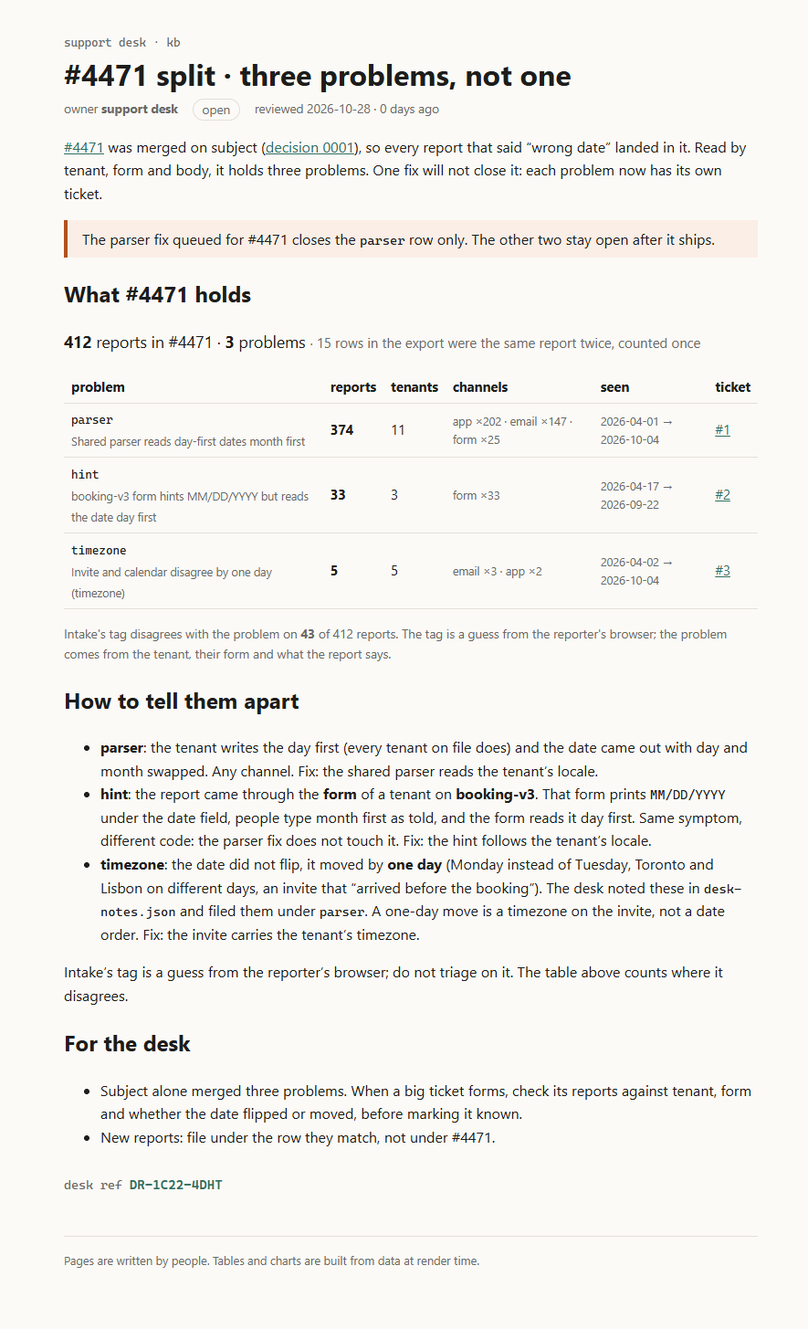
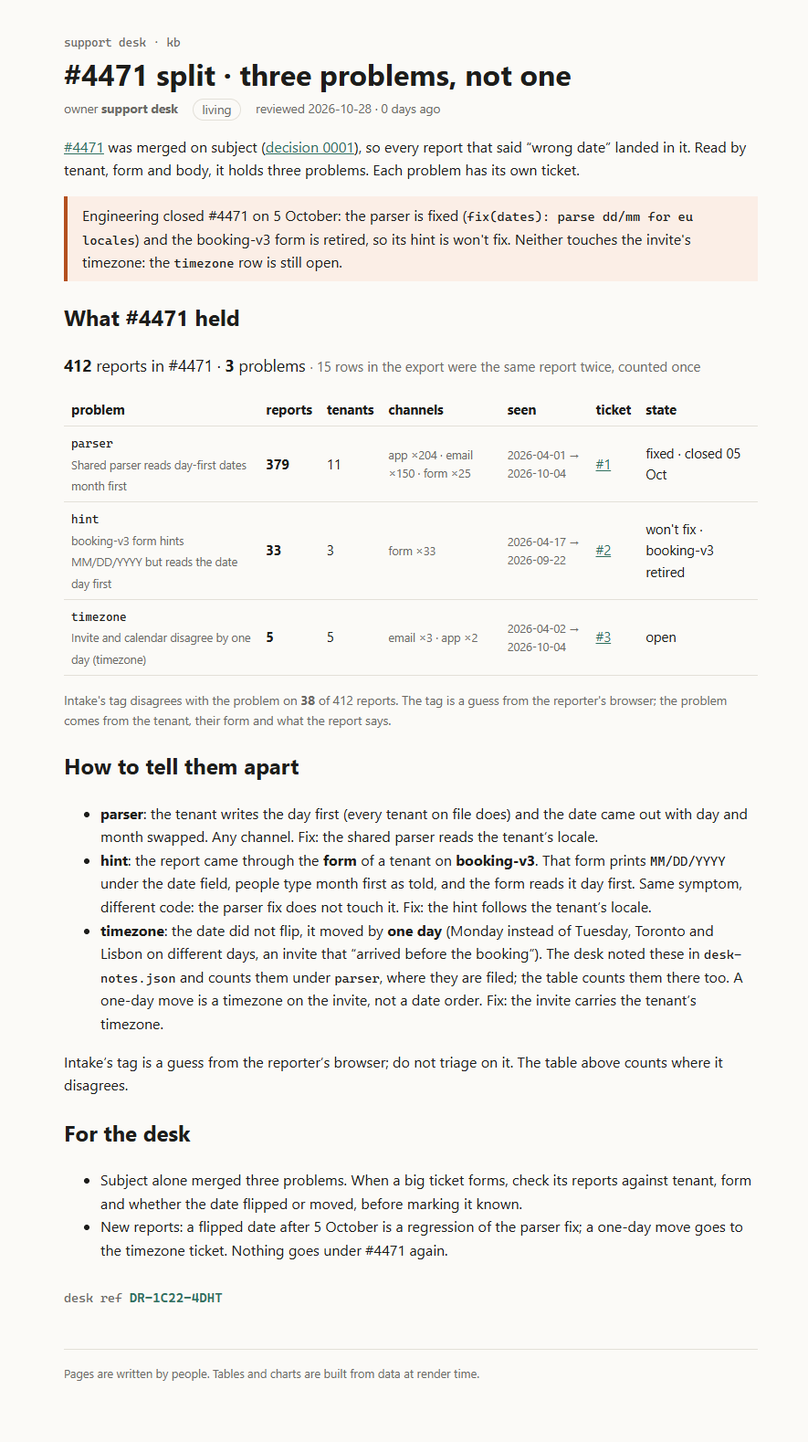
Update #4471 split page after engineering closed #4471
Parser fixed, booking-v3 hint won't fix, timezone still open. Parser
counted the desk's way (379, one-day moves stay where filed).

diff --git a/build/kb/incidents/4471-split/index.html b/build/kb/incidents/4471-split/index.html
@@ -9,11 +9,11 @@
 		<link href="../../../_app/immutable/chunks/B2Ul7l_u.js" rel="modulepreload">
 		<link href="../../../_app/immutable/chunks/BCPXOG7W.js" rel="modulepreload">
 		<link href="../../../_app/immutable/chunks/Dh1V97Jm.js" rel="modulepreload">
-		<link href="../../../_app/immutable/entry/app.uIZ9lFer.js" rel="modulepreload">
+		<link href="../../../_app/immutable/entry/app.BoNvqX0I.js" rel="modulepreload">
 		<link href="../../../_app/immutable/nodes/0.BurGglGN.js" rel="modulepreload">
 		<link href="../../../_app/immutable/chunks/DK3Fl9T5.js" rel="modulepreload">
-		<link href="../../../_app/immutable/nodes/5.B_NhNlF3.js" rel="modulepreload">
-		<link href="../../../_app/immutable/chunks/DJQhf34s.js" rel="modulepreload">
+		<link href="../../../_app/immutable/nodes/5.nLct2xgY.js" rel="modulepreload">
+		<link href="../../../_app/immutable/chunks/DkG8LdND.js" rel="modulepreload">
 		<link href="../../../_app/immutable/chunks/BTPwLomz.js" rel="modulepreload">
 		<link href="../../../_app/immutable/chunks/CVBzP17p.js" rel="modulepreload">
 		<link href="../../../_app/immutable/chunks/BIy4WKJS.js" rel="modulepreload">
@@ -23,29 +23,32 @@
 		<link href="../../../_app/immutable/assets/_page.ieYXtT2a.css" rel="stylesheet">
   </head>
   <body>
-    <div style="display: contents"><!--[--><!--[--><!--[0--><!--[--><!--[--><!--[-1--><!--[--><div class="kb svelte-e2jw2j"><header><a class="crumb svelte-e2jw2j" href="/kb">support desk · kb</a> <h1 class="svelte-e2jw2j">#4471 split · three problems, not one</h1> <p class="meta svelte-e2jw2j"><span>owner <b>support desk</b></span> <span class="status open svelte-e2jw2j">open</span> <span class="svelte-e2jw2j">reviewed 2026-10-28 · 0 days ago</span></p></header> <!--[-1--><!--]--> <main><p><a href="/kb/incidents/4471">#4471</a> was merged on subject (<a href="/kb/decisions/0001-dedupe-by-subject">decision 0001</a>), so
+    <div style="display: contents"><!--[--><!--[--><!--[0--><!--[--><!--[--><!--[-1--><!--[--><div class="kb svelte-e2jw2j"><header><a class="crumb svelte-e2jw2j" href="/kb">support desk · kb</a> <h1 class="svelte-e2jw2j">#4471 split · three problems, not one</h1> <p class="meta svelte-e2jw2j"><span>owner <b>support desk</b></span> <span class="status living svelte-e2jw2j">living</span> <span class="svelte-e2jw2j">reviewed 2026-10-28 · 0 days ago</span></p></header> <!--[-1--><!--]--> <main><p><a href="/kb/incidents/4471">#4471</a> was merged on subject (<a href="/kb/decisions/0001-dedupe-by-subject">decision 0001</a>), so
 every report that said “wrong date” landed in it. Read by tenant, form and body, it holds three problems.
-One fix will not close it: each problem now has its own ticket.</p> <aside class="warn svelte-17bri61"><!---->The parser fix queued for #4471 closes the <code>parser</code> row only. The other two stay open after it ships.<!----></aside><!----> <h2>What #4471 holds</h2> <p class="sum svelte-1op6c6"><strong>412</strong> reports in #4471 · <strong>3</strong> problems <!--[0--><span class="muted svelte-1op6c6">· 15 rows in the export were the same report twice, counted once</span><!--]--></p> <table><thead><tr><th>problem</th><th>reports</th><th>tenants</th><th>channels</th><th>seen</th><th>ticket</th></tr></thead><tbody><!--[--><tr class="svelte-1op6c6"><td class="svelte-1op6c6"><code>parser</code><br/><span class="muted svelte-1op6c6">Shared parser reads day-first dates month first</span></td><td class="svelte-1op6c6"><strong>374</strong></td><td title="alder.physio, copper.studio, harbour.dental, kettle.books, lantern.row, long.table, morrow.tax, nine.lanterns, pale.harbour, ridge.clinic, stone.and.sons" class="svelte-1op6c6">11</td><td class="muted svelte-1op6c6">app ×202 · email ×147 · form ×25</td><td class="muted svelte-1op6c6">2026-04-01 → 2026-10-04</td><td class="svelte-1op6c6"><!--[0--><a href="https://github.com/juangelrey/mega-s01e03-what-it-shows/issues/1">#1</a><!--]--></td></tr><tr class="svelte-1op6c6"><td class="svelte-1op6c6"><code>hint</code><br/><span class="muted svelte-1op6c6">booking-v3 form hints MM/DD/YYYY but reads the date day first</span></td><td class="svelte-1op6c6"><strong>33</strong></td><td title="alder.physio, copper.studio, pale.harbour" class="svelte-1op6c6">3</td><td class="muted svelte-1op6c6">form ×33</td><td class="muted svelte-1op6c6">2026-04-17 → 2026-09-22</td><td class="svelte-1op6c6"><!--[0--><a href="https://github.com/juangelrey/mega-s01e03-what-it-shows/issues/2">#2</a><!--]--></td></tr><tr class="svelte-1op6c6"><td class="svelte-1op6c6"><code>timezone</code><br/><span class="muted svelte-1op6c6">Invite and calendar disagree by one day (timezone)</span></td><td class="svelte-1op6c6"><strong>5</strong></td><td title="alder.physio, kettle.books, lantern.row, nine.lanterns, pale.harbour" class="svelte-1op6c6">5</td><td class="muted svelte-1op6c6">email ×3 · app ×2</td><td class="muted svelte-1op6c6">2026-04-02 → 2026-10-04</td><td class="svelte-1op6c6"><!--[0--><a href="https://github.com/juangelrey/mega-s01e03-what-it-shows/issues/3">#3</a><!--]--></td></tr><!--]--></tbody></table> <p class="muted svelte-1op6c6">Intake's tag disagrees with the problem on <strong>43</strong> of 412 reports. The tag is a guess from the
+Each problem has its own ticket.</p> <aside class="warn svelte-17bri61"><!---->Engineering closed #4471 on 5 October: the parser is fixed (<code>fix(dates): parse dd/mm for eu locales</code>)
+and the booking-v3 form is retired, so its hint is won't fix. Neither touches the invite's timezone:
+the <code>timezone</code> row is still open.<!----></aside><!----> <h2>What #4471 held</h2> <p class="sum svelte-1op6c6"><strong>412</strong> reports in #4471 · <strong>3</strong> problems <!--[0--><span class="muted svelte-1op6c6">· 15 rows in the export were the same report twice, counted once</span><!--]--></p> <table><thead><tr><th>problem</th><th>reports</th><th>tenants</th><th>channels</th><th>seen</th><th>ticket</th><th>state</th></tr></thead><tbody><!--[--><tr class="svelte-1op6c6"><td class="svelte-1op6c6"><code>parser</code><br/><span class="muted svelte-1op6c6">Shared parser reads day-first dates month first</span></td><td class="svelte-1op6c6"><strong>379</strong></td><td title="alder.physio, copper.studio, harbour.dental, kettle.books, lantern.row, long.table, morrow.tax, nine.lanterns, pale.harbour, ridge.clinic, stone.and.sons" class="svelte-1op6c6">11</td><td class="muted svelte-1op6c6">app ×204 · email ×150 · form ×25</td><td class="muted svelte-1op6c6">2026-04-01 → 2026-10-04</td><td class="svelte-1op6c6"><!--[0--><a href="https://github.com/juangelrey/mega-s01e03-what-it-shows/issues/1">#1</a><!--]--></td><td class="svelte-1op6c6">fixed · closed 05 Oct</td></tr><tr class="svelte-1op6c6"><td class="svelte-1op6c6"><code>hint</code><br/><span class="muted svelte-1op6c6">booking-v3 form hints MM/DD/YYYY but reads the date day first</span></td><td class="svelte-1op6c6"><strong>33</strong></td><td title="alder.physio, copper.studio, pale.harbour" class="svelte-1op6c6">3</td><td class="muted svelte-1op6c6">form ×33</td><td class="muted svelte-1op6c6">2026-04-17 → 2026-09-22</td><td class="svelte-1op6c6"><!--[0--><a href="https://github.com/juangelrey/mega-s01e03-what-it-shows/issues/2">#2</a><!--]--></td><td class="svelte-1op6c6">won't fix · booking-v3 retired</td></tr><tr class="svelte-1op6c6"><td class="svelte-1op6c6"><code>timezone</code><br/><span class="muted svelte-1op6c6">Invite and calendar disagree by one day (timezone)</span></td><td class="svelte-1op6c6"><strong>5</strong></td><td title="alder.physio, kettle.books, lantern.row, nine.lanterns, pale.harbour" class="svelte-1op6c6">5</td><td class="muted svelte-1op6c6">email ×3 · app ×2</td><td class="muted svelte-1op6c6">2026-04-02 → 2026-10-04</td><td class="svelte-1op6c6"><!--[0--><a href="https://github.com/juangelrey/mega-s01e03-what-it-shows/issues/3">#3</a><!--]--></td><td class="svelte-1op6c6">open</td></tr><!--]--></tbody></table> <p class="muted svelte-1op6c6">Intake's tag disagrees with the problem on <strong>38</strong> of 412 reports. The tag is a guess from the
   reporter's browser; the problem comes from the tenant, their form and what the report says.</p><!----> <h2>How to tell them apart</h2> <ul><li><strong>parser</strong>: the tenant writes the day first (every tenant on file does) and the date came out with day and
 month swapped. Any channel. Fix: the shared parser reads the tenant’s locale.</li> <li><strong>hint</strong>: the report came through the <strong>form</strong> of a tenant on <strong>booking-v3</strong>. That form prints <code>MM/DD/YYYY</code> under the date field, people type month first as told, and the form reads it day first.
 Same symptom, different code: the parser fix does not touch it. Fix: the hint follows the tenant’s locale.</li> <li><strong>timezone</strong>: the date did not flip, it moved by <strong>one day</strong> (Monday instead of Tuesday, Toronto and Lisbon
-on different days, an invite that “arrived before the booking”). The desk noted these in <code>desk-notes.json</code> and filed them under <code>parser</code>. A one-day move is a timezone on the invite, not a
+on different days, an invite that “arrived before the booking”). The desk noted these in <code>desk-notes.json</code> and counts them under <code>parser</code>, where they are filed; the table counts them there too. A one-day move is a timezone on the invite, not a
 date order. Fix: the invite carries the tenant’s timezone.</li></ul> <p>Intake’s tag is a guess from the reporter’s browser; do not triage on it. The table above counts where it
 disagrees.</p> <h2>For the desk</h2> <ul><li>Subject alone merged three problems. When a big ticket forms, check its reports against tenant, form and
-whether the date flipped or moved, before marking it known.</li> <li>New reports: file under the row they match, not under #4471.</li></ul> <!--[0--><p class="stamp svelte-1280m42">desk ref <b class="svelte-1280m42">DR-1C22-4DHT</b></p><!--]--><!----><!----></main> <footer class="svelte-e2jw2j">Pages are written by people. Tables and charts are built from data at render time.</footer></div><!--]--><!--]--><!--]--><!----><!--]--><!--]--><!--]--><!----> <!--[-1--><!--]--><!--]-->
+whether the date flipped or moved, before marking it known.</li> <li>New reports: a flipped date after 5 October is a regression of the parser fix; a one-day move goes to the
+timezone ticket. Nothing goes under #4471 again.</li></ul> <!--[0--><p class="stamp svelte-1280m42">desk ref <b class="svelte-1280m42">DR-1C22-4DHT</b></p><!--]--><!----><!----></main> <footer class="svelte-e2jw2j">Pages are written by people. Tables and charts are built from data at render time.</footer></div><!--]--><!--]--><!--]--><!----><!--]--><!--]--><!--]--><!----> <!--[-1--><!--]--><!--]-->
 			
 			<script>
 				{
-					__sveltekit_1digjg2 = {
+					__sveltekit_1bf1uvu = {
 						base: new URL("../../..", location).pathname.slice(0, -1),
-						version: "1793228470572"
+						version: "1793228848483"
 					};
 
 					const element = document.currentScript.parentElement;
 
 					import("../../../_app/immutable/entry/start.CH5w6lId.js").then(async (kit) => {
-						kit.init(__sveltekit_1digjg2);
-						const app = await import("../../../_app/immutable/entry/app.uIZ9lFer.js");
+						kit.init(__sveltekit_1bf1uvu);
+						const app = await import("../../../_app/immutable/entry/app.BoNvqX0I.js");
 						kit.start(app, element, {
 							node_ids: [0, 5],
 							data: [null,null],

diff --git a/build/_app/immutable/chunks/DkG8LdND.js b/build/_app/immutable/chunks/DkG8LdND.js
@@ -1,0 +1,13 @@
+import{t as e}from"./DK3Fl9T5.js";import{E as t,F as n,H as r,I as i,K as a,L as o,N as s,O as c,R as l,S as u,T as d,U as f,W as p,_ as m,c as h,d as g,h as _,k as v,n as y,q as b,r as x,t as S,w as C}from"./BCPXOG7W.js";import{t as w}from"./BTPwLomz.js";import{n as T,t as E}from"./CVBzP17p.js";import{i as D,l as O,r as k,t as A}from"./BIy4WKJS.js";var j={parser:`Shared parser reads day-first dates month first`,hint:`booking-v3 form hints MM/DD/YYYY but reads the date day first`,timezone:`Invite and calendar disagree by one day (timezone)`};function M(e,t,n){return n.includes(e.id)?`timezone`:D(e,t)}function N(e,t,n,r){let i=O(e).filter(e=>e.mergedInto===t),a=new Map,o=(e,t)=>a.set(e,[...a.get(e)??[],t]);for(let e of i)o(D(e,n(e))??`unplaced`,e),M(e,n(e),r)===`timezone`&&o(`timezone`,e);return[...a.entries()].map(([e,t])=>{let n=t.map(e=>e.receivedAt.slice(0,10)).sort();return{problem:e,reports:t,tenants:[...new Set(t.map(e=>e.tenant))].sort(),channels:t.reduce((e,t)=>({...e,[t.channel]:(e[t.channel]??0)+1}),{}),mistagged:t.filter(t=>t.meta.intakeTag!==e).length,firstSeen:n[0],lastSeen:n[n.length-1]}}).sort((e,t)=>t.reports.length-e.reports.length)}var P=t(`<span class="muted svelte-1op6c6"> </span>`),F=t(`<a> </a>`),I=t(`<tr><td class="svelte-1op6c6"><code> </code><br/><span class="muted svelte-1op6c6"> </span></td><td class="svelte-1op6c6"><strong> </strong></td><td class="svelte-1op6c6"> </td><td class="muted svelte-1op6c6"> </td><td class="muted svelte-1op6c6"> </td><td class="svelte-1op6c6"><!></td><td class="svelte-1op6c6"> </td></tr>`),L=t(`<p class="sum svelte-1op6c6"><strong> </strong> <strong> </strong> <!></p> <table><thead><tr><th>problem</th><th>reports</th><th>tenants</th><th>channels</th><th>seen</th><th>ticket</th><th>state</th></tr></thead><tbody></tbody></table> <p class="muted svelte-1op6c6">Intake's tag disagrees with the problem on <strong> </strong> </p>`,1);function R(e,t){p(t,!0);let a=y(t,`tickets`,19,()=>({})),d=r(()=>T),x=r(()=>N(v(d),t.ticket,k,E.oneDayMove)),S=r(()=>new Set(v(x).flatMap(e=>e.reports.map(e=>e.id))).size),w=r(()=>v(d).filter(e=>e.mergedInto===t.ticket).length-v(S)),D=e=>`#`+e.split(`/`).pop(),O=e=>Object.entries(e).sort((e,t)=>t[1]-e[1]).map(([e,t])=>`${e} ×${t}`).join(` · `);var A=L(),M=i(A),R=n(M),z=o(R,!0),B=l(R),V=l(B),H=o(V,!0),U=l(V),W=l(U),G=e=>{var t=P(),n=o(t);s(()=>u(n,`· ${v(w)??``} rows in the export were the same report twice, counted once`)),C(e,t)};m(W,e=>{v(w)&&e(G)}),b(M);var K=l(M,2),q=l(n(K));_(q,21,()=>v(x),e=>e.problem,(e,t)=>{let i=r(()=>v(t).problem===`unplaced`?void 0:a()[v(t).problem]);var d=I();let f;var p=n(d),_=n(p),y=o(_,!0),x=l(_,2),S=o(x,!0);b(p);var w=l(p),T=n(w),E=o(T,!0);b(w);var k=l(w),A=o(k,!0),M=l(k),N=o(M,!0),P=l(M),L=o(P),R=l(P),z=n(R),B=e=>{var t=F(),n=o(t,!0);s(e=>{h(t,`href`,v(i).url),u(n,e)},[()=>D(v(i).url)]),C(e,t)},V=e=>{var t=c(`no ticket yet`);C(e,t)};m(z,e=>{v(i)?e(B):e(V,-1)}),b(R);var H=l(R),U=o(H,!0);b(d),s((e,n)=>{f=g(d,1,`svelte-1op6c6`,null,f,{open:!v(i)}),u(y,v(t).problem),u(S,v(t).problem===`unplaced`?`no tenant on file`:j[v(t).problem]),u(E,v(t).reports.length),h(k,`title`,e),u(A,v(t).tenants.length),u(N,n),u(L,`${v(t).firstSeen??``} → ${v(t).lastSeen??``}`),u(U,v(i)?.state??`—`)},[()=>v(t).tenants.join(`, `),()=>O(v(t).channels)]),C(e,d)}),b(q),b(K);var J=l(K,2),Y=l(n(J)),X=o(Y,!0),Z=l(Y);b(J),s(e=>{u(z,v(S)),u(B,` reports in #${t.ticket??``} · `),u(H,v(x).length),u(U,` ${v(x).length===1?`problem`:`problems`} `),u(X,e),u(Z,` of ${v(S)??``} reports. The tag is a guess from the
+  reporter's browser; the problem comes from the tenant, their form and what the report says.`)},[()=>v(x).filter(e=>e.problem!==`timezone`).reduce((e,t)=>e+t.mistagged,0)]),C(e,A),f()}var z=`0123456789ABCDEFGHJKMNPQRSTVWXYZ`;function B(e,t){let n=t>>>0;for(let t=0;t<e.length;t++)n^=e.charCodeAt(t),n=Math.imul(n,16777619)>>>0;return n}function V(e){let t=e.trim(),n=B(t,2166136261),r=B(t,2654435769),i=BigInt(n)<<8n|BigInt(r&255),a=``;for(let e=0;e<8;e++)a=z[Number(i&31n)]+a,i>>=5n;return`DR-${a.slice(0,4)}-${a.slice(4)}`}var H=t(`<p class="stamp svelte-1280m42">desk ref <b class="svelte-1280m42"> </b></p>`),U=t(`<p class="stamp missing svelte-1280m42">no desk ref: this page isn't signed (no <code>signature</code> in its frontmatter)</p>`);function W(e,t){p(t,!0);let a=r(()=>t.signature?V(t.signature):null);var c=d(),h=i(c),g=e=>{var t=H(),r=l(n(t)),i=o(r,!0);b(t),s(()=>u(i,v(a))),C(e,t)},_=e=>{var t=U();C(e,t)};m(h,e=>{v(a)?e(g):e(_,-1)}),C(e,c),f()}var G=e({default:()=>$,metadata:()=>K}),K={layout:`runbook`,title:`#4471 split · three problems, not one`,owner:`support desk`,status:`living`,reviewed:`2026-10-28T00:00:00.000Z`,signature:`v1.eyJzdWIiOiIxOTUzIiwiYXVkIjoiY2hhbGxlbmdlOndoYXQtaXQtc2hvd3MiLCJpYXQiOjE3OTMyMjgyMTQsImV4cCI6MTc5MzMxNDYxNH0.05CflnOduqju8Q4Qz5kSK6ihjz5PtXoCJ2pQR6aXCWE`},{layout:q,title:J,owner:Y,status:X,reviewed:Z,signature:Q}=K,ee=t(`Engineering closed #4471 on 5 October: the parser is fixed (<code>fix(dates): parse dd/mm for eu locales</code>)
+and the booking-v3 form is retired, so its hint is won't fix. Neither touches the invite's timezone:
+the <code>timezone</code> row is still open.`,1),te=t(`<p><a href="/kb/incidents/4471">#4471</a> was merged on subject (<a href="/kb/decisions/0001-dedupe-by-subject">decision 0001</a>), so
+every report that said “wrong date” landed in it. Read by tenant, form and body, it holds three problems.
+Each problem has its own ticket.</p> <!> <h2>What #4471 held</h2> <!> <h2>How to tell them apart</h2> <ul><li><strong>parser</strong>: the tenant writes the day first (every tenant on file does) and the date came out with day and
+month swapped. Any channel. Fix: the shared parser reads the tenant’s locale.</li> <li><strong>hint</strong>: the report came through the <strong>form</strong> of a tenant on <strong>booking-v3</strong>. That form prints <code>MM/DD/YYYY</code> under the date field, people type month first as told, and the form reads it day first.
+Same symptom, different code: the parser fix does not touch it. Fix: the hint follows the tenant’s locale.</li> <li><strong>timezone</strong>: the date did not flip, it moved by <strong>one day</strong> (Monday instead of Tuesday, Toronto and Lisbon
+on different days, an invite that “arrived before the booking”). The desk noted these in <code>desk-notes.json</code> and counts them under <code>parser</code>, where they are filed; the table counts them there too. A one-day move is a timezone on the invite, not a
+date order. Fix: the invite carries the tenant’s timezone.</li></ul> <p>Intake’s tag is a guess from the reporter’s browser; do not triage on it. The table above counts where it
+disagrees.</p> <h2>For the desk</h2> <ul><li>Subject alone merged three problems. When a big ticket forms, check its reports against tenant, form and
+whether the date flipped or moved, before marking it known.</li> <li>New reports: a flipped date after 5 October is a regression of the parser fix; a one-day move goes to the
+timezone ticket. Nothing goes under #4471 again.</li></ul> <!>`,1);function $(e,t){let n=S(t,[`children`,`$$slots`,`$$events`,`$$legacy`]),r=`https://github.com/juangelrey/mega-s01e03-what-it-shows/issues`,o={parser:{url:r+`/1`,state:`fixed · closed 05 Oct`},hint:{url:r+`/2`,state:`won't fix · booking-v3 retired`},timezone:{url:r+`/3`,state:`open`}};w(e,x(()=>n,()=>K,{children:(e,t)=>{var n=te(),r=l(i(n),2);A(r,{kind:`warn`,children:(e,t)=>{a();var n=ee();a(4),C(e,n)},$$slots:{default:!0}});var s=l(r,4);R(s,{ticket:4471,get tickets(){return o}}),W(l(s,12),{get signature(){return Q}}),C(e,n)},$$slots:{default:!0}}))}export{$ as n,G as t};

diff --git a/build/kb/index.html b/build/kb/index.html
@@ -9,16 +9,16 @@
 		<link href="../_app/immutable/chunks/B2Ul7l_u.js" rel="modulepreload">
 		<link href="../_app/immutable/chunks/BCPXOG7W.js" rel="modulepreload">
 		<link href="../_app/immutable/chunks/Dh1V97Jm.js" rel="modulepreload">
-		<link href="../_app/immutable/entry/app.uIZ9lFer.js" rel="modulepreload">
+		<link href="../_app/immutable/entry/app.BoNvqX0I.js" rel="modulepreload">
 		<link href="../_app/immutable/nodes/0.BurGglGN.js" rel="modulepreload">
 		<link href="../_app/immutable/chunks/DK3Fl9T5.js" rel="modulepreload">
-		<link href="../_app/immutable/nodes/2.BEnOeC3e.js" rel="modulepreload">
+		<link href="../_app/immutable/nodes/2.DAWOM0ac.js" rel="modulepreload">
 		<link href="../_app/immutable/chunks/BTPwLomz.js" rel="modulepreload">
 		<link href="../_app/immutable/chunks/YX22L_Ud.js" rel="modulepreload">
 		<link href="../_app/immutable/chunks/CgeRC4yK.js" rel="modulepreload">
 		<link href="../_app/immutable/chunks/CVBzP17p.js" rel="modulepreload">
 		<link href="../_app/immutable/chunks/BIy4WKJS.js" rel="modulepreload">
-		<link href="../_app/immutable/chunks/DJQhf34s.js" rel="modulepreload">
+		<link href="../_app/immutable/chunks/DkG8LdND.js" rel="modulepreload">
 		<link href="../_app/immutable/chunks/BGqJVSDw.js" rel="modulepreload">
 		<!--e2jw2j--><!----><title>Support knowledge base · support kb</title>
 		<link href="../_app/immutable/assets/runbook.COyw0cbZ.css" rel="stylesheet">
@@ -29,21 +29,21 @@
 		<link href="../_app/immutable/assets/2.Bt0MwIZg.css" rel="stylesheet">
   </head>
   <body>
-    <div style="display: contents"><!--[--><!--[--><!--[0--><!--[--><!--[--><!--[-1--><!--[--><div class="kb svelte-e2jw2j"><header><a class="crumb svelte-e2jw2j" href="/kb">support desk · kb</a> <h1 class="svelte-e2jw2j">Support knowledge base</h1> <p class="meta svelte-e2jw2j"><span>owner <b>support desk</b></span> <span class="status living svelte-e2jw2j">living</span> <span class="svelte-e2jw2j">reviewed 2026-09-28 · 30 days ago</span></p></header> <!--[-1--><!--]--> <main><p>What the support desk knows, kept next to the code that knows it. One desk, every product: <code>sched-prod</code> (calendar invites for about 300k people) and the rest. When something breaks, the reports land here first.</p> <p>Start with <a href="/kb/triage/dedupe">triage</a> if you are new on the desk.</p> <h2>Pages</h2> <table><thead><tr><th>page</th><th>owner</th><th>status</th><th>reviewed</th></tr></thead><tbody><!--[--><tr><td><a href="/kb/decisions/0001-dedupe-by-subject">0001 · Duplicates share a subject line</a></td><td>rune</td><td>accepted</td><td class="svelte-tbc1ha stale">2024-06-11</td></tr><tr><td><a href="/kb/incidents/4471">#4471 · dates parse mm/dd in eu locales</a></td><td>support desk</td><td>known</td><td class="svelte-tbc1ha">2026-09-30</td></tr><tr><td><a href="/kb/incidents/4471-split">#4471 split · three problems, not one</a></td><td>support desk</td><td>open</td><td class="svelte-tbc1ha">2026-10-28</td></tr><tr><td><a href="/kb/triage/dedupe">Triage: duplicate reports</a></td><td>support desk</td><td>accepted</td><td class="svelte-tbc1ha stale">2024-06-11</td></tr><!--]--></tbody></table><!----> <h2>Writing a page</h2> <p>Keep the words here and the logic in <code>src/lib</code>. A number that can be computed should be
+    <div style="display: contents"><!--[--><!--[--><!--[0--><!--[--><!--[--><!--[-1--><!--[--><div class="kb svelte-e2jw2j"><header><a class="crumb svelte-e2jw2j" href="/kb">support desk · kb</a> <h1 class="svelte-e2jw2j">Support knowledge base</h1> <p class="meta svelte-e2jw2j"><span>owner <b>support desk</b></span> <span class="status living svelte-e2jw2j">living</span> <span class="svelte-e2jw2j">reviewed 2026-09-28 · 30 days ago</span></p></header> <!--[-1--><!--]--> <main><p>What the support desk knows, kept next to the code that knows it. One desk, every product: <code>sched-prod</code> (calendar invites for about 300k people) and the rest. When something breaks, the reports land here first.</p> <p>Start with <a href="/kb/triage/dedupe">triage</a> if you are new on the desk.</p> <h2>Pages</h2> <table><thead><tr><th>page</th><th>owner</th><th>status</th><th>reviewed</th></tr></thead><tbody><!--[--><tr><td><a href="/kb/decisions/0001-dedupe-by-subject">0001 · Duplicates share a subject line</a></td><td>rune</td><td>accepted</td><td class="svelte-tbc1ha stale">2024-06-11</td></tr><tr><td><a href="/kb/incidents/4471">#4471 · dates parse mm/dd in eu locales</a></td><td>support desk</td><td>known</td><td class="svelte-tbc1ha">2026-09-30</td></tr><tr><td><a href="/kb/incidents/4471-split">#4471 split · three problems, not one</a></td><td>support desk</td><td>living</td><td class="svelte-tbc1ha">2026-10-28</td></tr><tr><td><a href="/kb/triage/dedupe">Triage: duplicate reports</a></td><td>support desk</td><td>accepted</td><td class="svelte-tbc1ha stale">2024-06-11</td></tr><!--]--></tbody></table><!----> <h2>Writing a page</h2> <p>Keep the words here and the logic in <code>src/lib</code>. A number that can be computed should be
 computed by a component, not typed into a paragraph.</p><!----></main> <footer class="svelte-e2jw2j">Pages are written by people. Tables and charts are built from data at render time.</footer></div><!--]--><!--]--><!--]--><!----><!--]--><!--]--><!--]--><!----> <!--[-1--><!--]--><!--]-->
 			
 			<script>
 				{
-					__sveltekit_1digjg2 = {
+					__sveltekit_1bf1uvu = {
 						base: new URL("..", location).pathname.slice(0, -1),
-						version: "1793228470572"
+						version: "1793228848483"
 					};
 
 					const element = document.currentScript.parentElement;
 
 					import("../_app/immutable/entry/start.CH5w6lId.js").then(async (kit) => {
-						kit.init(__sveltekit_1digjg2);
-						const app = await import("../_app/immutable/entry/app.uIZ9lFer.js");
+						kit.init(__sveltekit_1bf1uvu);
+						const app = await import("../_app/immutable/entry/app.BoNvqX0I.js");
 						kit.start(app, element, {
 							node_ids: [0, 2],
 							data: [null,null],

diff --git a/src/lib/kb/ProblemTable.svelte b/src/lib/kb/ProblemTable.svelte
@@ -5,12 +5,13 @@
   import { tenantOf } from '#lib/kb/locales';
   import { PROBLEM_TITLE, splitTicket, type Problem } from '#lib/kb/problems';
 
-  // `tickets`: where each problem is filed now, problem → issue URL.
-  let { ticket, tickets = {} }: { ticket: number; tickets?: Partial<Record<Problem, string>> } = $props();
+  // `tickets`: where each problem is filed now, problem → issue URL and what became of it.
+  type Filed = { url: string; state: string };
+  let { ticket, tickets = {} }: { ticket: number; tickets?: Partial<Record<Problem, Filed>> } = $props();
 
   const rows = $derived(reports as Report[]);
   const groups = $derived(splitTicket(rows, ticket, tenantOf, notes.oneDayMove));
-  const total = $derived(groups.reduce((n, g) => n + g.reports.length, 0));
+  const total = $derived(new Set(groups.flatMap((g) => g.reports.map((r) => r.id))).size);
   const dupes = $derived(rows.filter((r) => r.mergedInto === ticket).length - total);
   const issue = (url: string) => '#' + url.split('/').pop();
   const channels = (c: Record<string, number>) =>
@@ -28,18 +29,19 @@
 
 <table>
   <thead>
-    <tr><th>problem</th><th>reports</th><th>tenants</th><th>channels</th><th>seen</th><th>ticket</th></tr>
+    <tr><th>problem</th><th>reports</th><th>tenants</th><th>channels</th><th>seen</th><th>ticket</th><th>state</th></tr>
   </thead>
   <tbody>
     {#each groups as g (g.problem)}
-      {@const url = g.problem === 'unplaced' ? undefined : tickets[g.problem]}
-      <tr class:open={!url}>
+      {@const filed = g.problem === 'unplaced' ? undefined : tickets[g.problem]}
+      <tr class:open={!filed}>
         <td><code>{g.problem}</code><br /><span class="muted">{g.problem === 'unplaced' ? 'no tenant on file' : PROBLEM_TITLE[g.problem]}</span></td>
         <td><strong>{g.reports.length}</strong></td>
         <td title={g.tenants.join(', ')}>{g.tenants.length}</td>
         <td class="muted">{channels(g.channels)}</td>
         <td class="muted">{g.firstSeen} → {g.lastSeen}</td>
-        <td>{#if url}<a href={url}>{issue(url)}</a>{:else}no ticket yet{/if}</td>
+        <td>{#if filed}<a href={filed.url}>{issue(filed.url)}</a>{:else}no ticket yet{/if}</td>
+        <td>{filed?.state ?? '—'}</td>
       </tr>
     {/each}
   </tbody>
@@ -47,7 +49,7 @@
 
 <p class="muted">
   Intake's tag disagrees with the problem on
-  <strong>{groups.reduce((n, g) => n + g.mistagged, 0)}</strong> of {total} reports. The tag is a guess from the
+  <strong>{groups.filter((g) => g.problem !== 'timezone').reduce((n, g) => n + g.mistagged, 0)}</strong> of {total} reports. The tag is a guess from the
   reporter's browser; the problem comes from the tenant, their form and what the report says.
 </p>
 

diff --git a/build/_app/immutable/nodes/2.DAWOM0ac.js b/build/_app/immutable/nodes/2.DAWOM0ac.js
@@ -1,0 +1,2 @@
+import{E as e,F as t,I as n,K as r,L as i,N as a,R as o,S as s,U as c,W as l,c as u,d,h as f,i as p,k as m,q as h,r as g,t as _,w as v}from"../chunks/BCPXOG7W.js";import{n as y,r as b,t as x}from"../chunks/BTPwLomz.js";import{t as S}from"../chunks/YX22L_Ud.js";import{t as C}from"../chunks/CgeRC4yK.js";import{t as w}from"../chunks/DkG8LdND.js";import{t as T}from"../chunks/BGqJVSDw.js";var E=e(`<tr><td><a> </a></td><td> </td><td> </td><td> </td></tr>`),D=e(`<table><thead><tr><th>page</th><th>owner</th><th>status</th><th>reviewed</th></tr></thead><tbody></tbody></table>`);function O(e,n){l(n,!1);let r=Object.entries(Object.assign({"/src/routes/kb/decisions/0001-dedupe-by-subject/+page.svx":S,"/src/routes/kb/incidents/4471/+page.svx":C,"/src/routes/kb/incidents/4471-split/+page.svx":w,"/src/routes/kb/triage/dedupe/+page.svx":T})).map(([e,t])=>({href:e.replace(`/src/routes`,``).replace(`/+page.svx`,``),...t.metadata})).sort((e,t)=>e.href.localeCompare(t.href));p();var g=D(),_=o(t(g));f(_,5,()=>r,e=>e.href,(e,n)=>{var r=E(),c=t(r),l=t(c),f=i(l,!0);h(c);var p=o(c),g=i(p,!0),_=o(p),x=i(_,!0),S=o(_);let C;var w=i(S,!0);h(r),a((e,t)=>{u(l,`href`,m(n).href),s(f,m(n).title),s(g,m(n).owner),s(x,m(n).status),C=d(S,1,`svelte-tbc1ha`,null,C,{stale:e}),s(w,t)},[()=>y(m(n).reviewed)>180,()=>b(m(n).reviewed)]),v(e,r)}),h(_),h(g),v(e,g),c()}var k={layout:`runbook`,title:`Support knowledge base`,owner:`support desk`,status:`living`,reviewed:`2026-09-28T00:00:00.000Z`},{layout:A,title:j,owner:M,status:N,reviewed:P}=k,F=e(`<p>What the support desk knows, kept next to the code that knows it. One desk, every product: <code>sched-prod</code> (calendar invites for about 300k people) and the rest. When something breaks, the reports land here first.</p> <p>Start with <a href="/kb/triage/dedupe">triage</a> if you are new on the desk.</p> <h2>Pages</h2> <!> <h2>Writing a page</h2> <p>Keep the words here and the logic in <code>src/lib</code>. A number that can be computed should be
+computed by a component, not typed into a paragraph.</p>`,1);function I(e,t){let i=_(t,[`children`,`$$slots`,`$$events`,`$$legacy`]);x(e,g(()=>i,()=>k,{children:(e,t)=>{var i=F();O(o(n(i),6),{}),r(4),v(e,i)},$$slots:{default:!0}}))}export{I as component};

diff --git a/build/_app/immutable/entry/app.BoNvqX0I.js b/build/_app/immutable/entry/app.BoNvqX0I.js
@@ -1,0 +1,2 @@
+const __vite__mapDeps=(i,m=__vite__mapDeps,d=(m.f||(m.f=["../nodes/0.BurGglGN.js","../chunks/DK3Fl9T5.js","../chunks/BCPXOG7W.js","../nodes/1.mOwa9YdW.js","../chunks/Dh1V97Jm.js","./payload.DSmR2FwN.js","../nodes/2.DAWOM0ac.js","../chunks/BTPwLomz.js","../assets/runbook.COyw0cbZ.css","../chunks/YX22L_Ud.js","../chunks/CgeRC4yK.js","../chunks/CVBzP17p.js","../chunks/BIy4WKJS.js","../assets/Callout.AbLv9dM_.css","../assets/_page.D56XP2ro.css","../chunks/DkG8LdND.js","../assets/_page.ieYXtT2a.css","../chunks/BGqJVSDw.js","../assets/_page.DO6Yid7X.css","../assets/2.Bt0MwIZg.css","../nodes/3.DRxPfvn3.js","../nodes/4.rt2PfD_4.js","../nodes/5.nLct2xgY.js","../nodes/6.sFtxrtyV.js"])))=>i.map(i=>d[i]);
+import{t as e}from"../chunks/CRzLMJPS.js";var t={},n=[()=>e(()=>import(`../nodes/0.BurGglGN.js`),__vite__mapDeps([0,1,2]),import.meta.url),()=>e(()=>import(`../nodes/1.mOwa9YdW.js`),__vite__mapDeps([3,2,4,5]),import.meta.url),()=>e(()=>import(`../nodes/2.DAWOM0ac.js`),__vite__mapDeps([6,2,7,8,9,1,10,11,12,13,14,15,16,17,18,19]),import.meta.url),()=>e(()=>import(`../nodes/3.DRxPfvn3.js`),__vite__mapDeps([20,9,1,2,7,8]),import.meta.url),()=>e(()=>import(`../nodes/4.rt2PfD_4.js`),__vite__mapDeps([21,10,1,2,7,8,11,12,13,14]),import.meta.url),()=>e(()=>import(`../nodes/5.nLct2xgY.js`),__vite__mapDeps([22,15,1,2,7,8,11,12,13,16]),import.meta.url),()=>e(()=>import(`../nodes/6.sFtxrtyV.js`),__vite__mapDeps([23,17,1,2,7,8,12,13,18]),import.meta.url)],r=[],i={"/kb":[2],"/kb/decisions/0001-dedupe-by-subject":[3],"/kb/incidents/4471-split":[5],"/kb/incidents/4471":[4],"/kb/triage/dedupe":[6]},a={handleError:(({kind:e,error:t})=>{e===`unknown`&&console.error(t)}),reroute:(()=>{}),transport:{}},o=Object.fromEntries(Object.entries(a.transport).map(([e,t])=>[e,t.decode])),s=Object.fromEntries(Object.entries(a.transport).map(([e,t])=>[e,t.encode])),c=!1,l=(e,t)=>o[e](t),u=()=>e(()=>import(`../chunks/Bjy-W4x2.js`).then(e=>e.default),[],import.meta.url);export{l as decode,o as decoders,i as dictionary,s as encoders,u as get_error_template,c as hash,a as hooks,t as matchers,n as nodes,r as server_loads};

diff --git a/build/kb/decisions/0001-dedupe-by-subject/index.html b/build/kb/decisions/0001-dedupe-by-subject/index.html
@@ -9,7 +9,7 @@
 		<link href="../../../_app/immutable/chunks/B2Ul7l_u.js" rel="modulepreload">
 		<link href="../../../_app/immutable/chunks/BCPXOG7W.js" rel="modulepreload">
 		<link href="../../../_app/immutable/chunks/Dh1V97Jm.js" rel="modulepreload">
-		<link href="../../../_app/immutable/entry/app.uIZ9lFer.js" rel="modulepreload">
+		<link href="../../../_app/immutable/entry/app.BoNvqX0I.js" rel="modulepreload">
 		<link href="../../../_app/immutable/nodes/0.BurGglGN.js" rel="modulepreload">
 		<link href="../../../_app/immutable/chunks/DK3Fl9T5.js" rel="modulepreload">
 		<link href="../../../_app/immutable/nodes/3.DRxPfvn3.js" rel="modulepreload">
@@ -26,16 +26,16 @@ engineering merges them later.</li></ul><!----></main> <footer class="svelte-e2j
 			
 			<script>
 				{
-					__sveltekit_1digjg2 = {
+					__sveltekit_1bf1uvu = {
 						base: new URL("../../..", location).pathname.slice(0, -1),
-						version: "1793228470572"
+						version: "1793228848483"
 					};
 
 					const element = document.currentScript.parentElement;
 
 					import("../../../_app/immutable/entry/start.CH5w6lId.js").then(async (kit) => {
-						kit.init(__sveltekit_1digjg2);
-						const app = await import("../../../_app/immutable/entry/app.uIZ9lFer.js");
+						kit.init(__sveltekit_1bf1uvu);
+						const app = await import("../../../_app/immutable/entry/app.BoNvqX0I.js");
 						kit.start(app, element, {
 							node_ids: [0, 3],
 							data: [null,null],

diff --git a/build/kb/incidents/4471/index.html b/build/kb/incidents/4471/index.html
@@ -9,7 +9,7 @@
 		<link href="../../../_app/immutable/chunks/B2Ul7l_u.js" rel="modulepreload">
 		<link href="../../../_app/immutable/chunks/BCPXOG7W.js" rel="modulepreload">
 		<link href="../../../_app/immutable/chunks/Dh1V97Jm.js" rel="modulepreload">
-		<link href="../../../_app/immutable/entry/app.uIZ9lFer.js" rel="modulepreload">
+		<link href="../../../_app/immutable/entry/app.BoNvqX0I.js" rel="modulepreload">
 		<link href="../../../_app/immutable/nodes/0.BurGglGN.js" rel="modulepreload">
 		<link href="../../../_app/immutable/chunks/DK3Fl9T5.js" rel="modulepreload">
 		<link href="../../../_app/immutable/nodes/4.rt2PfD_4.js" rel="modulepreload">
@@ -29,16 +29,16 @@ first. The fix is queued.</p> <aside class="note svelte-17bri61"><!---->Known. O
 			
 			<script>
 				{
-					__sveltekit_1digjg2 = {
+					__sveltekit_1bf1uvu = {
 						base: new URL("../../..", location).pathname.slice(0, -1),
-						version: "1793228470572"
+						version: "1793228848483"
 					};
 
 					const element = document.currentScript.parentElement;
 
 					import("../../../_app/immutable/entry/start.CH5w6lId.js").then(async (kit) => {
-						kit.init(__sveltekit_1digjg2);
-						const app = await import("../../../_app/immutable/entry/app.uIZ9lFer.js");
+						kit.init(__sveltekit_1bf1uvu);
+						const app = await import("../../../_app/immutable/entry/app.BoNvqX0I.js");
 						kit.start(app, element, {
 							node_ids: [0, 4],
 							data: [null,null],

diff --git a/build/kb/triage/dedupe/index.html b/build/kb/triage/dedupe/index.html
@@ -9,7 +9,7 @@
 		<link href="../../../_app/immutable/chunks/B2Ul7l_u.js" rel="modulepreload">
 		<link href="../../../_app/immutable/chunks/BCPXOG7W.js" rel="modulepreload">
 		<link href="../../../_app/immutable/chunks/Dh1V97Jm.js" rel="modulepreload">
-		<link href="../../../_app/immutable/entry/app.uIZ9lFer.js" rel="modulepreload">
+		<link href="../../../_app/immutable/entry/app.BoNvqX0I.js" rel="modulepreload">
 		<link href="../../../_app/immutable/nodes/0.BurGglGN.js" rel="modulepreload">
 		<link href="../../../_app/immutable/chunks/DK3Fl9T5.js" rel="modulepreload">
 		<link href="../../../_app/immutable/nodes/6.sFtxrtyV.js" rel="modulepreload">
@@ -29,16 +29,16 @@ anything else.<!----></aside><!----> <h2>Try it</h2> <div class="try svelte-gq0h
 			
 			<script>
 				{
-					__sveltekit_1digjg2 = {
+					__sveltekit_1bf1uvu = {
 						base: new URL("../../..", location).pathname.slice(0, -1),
-						version: "1793228470572"
+						version: "1793228848483"
 					};
 
 					const element = document.currentScript.parentElement;
 
 					import("../../../_app/immutable/entry/start.CH5w6lId.js").then(async (kit) => {
-						kit.init(__sveltekit_1digjg2);
-						const app = await import("../../../_app/immutable/entry/app.uIZ9lFer.js");
+						kit.init(__sveltekit_1bf1uvu);
+						const app = await import("../../../_app/immutable/entry/app.BoNvqX0I.js");
 						kit.start(app, element, {
 							node_ids: [0, 6],
 							data: [null,null],

diff --git a/src/lib/kb/problems.ts b/src/lib/kb/problems.ts
@@ -1,6 +1,7 @@
 // The problems #4471 really holds. causes.ts says why a date flips; this file adds the reports
 // whose date did not flip at all: they moved by one day (desk-notes.json `oneDayMove`). A one-day
-// move is a timezone, not a day-first locale, so the parser fix will not close it.
+// move is a timezone, not a day-first locale, so the parser fix will not close it. Counts follow the
+// desk's view: those reports stay counted where they are filed, and the timezone row counts them again.
 import { causeOf, uniqueById, type Report, type Tenant } from '#lib/kb/causes';
 
 export type Problem = 'parser' | 'hint' | 'timezone';
@@ -36,9 +37,11 @@ export function splitTicket(
 ): ProblemGroup[] {
   const merged = uniqueById(all).filter((r) => r.mergedInto === ticket);
   const by = new Map<ProblemGroup['problem'], Report[]>();
+  const add = (p: ProblemGroup['problem'], r: Report) => by.set(p, [...(by.get(p) ?? []), r]);
   for (const r of merged) {
-    const p = problemOf(r, tenantOf(r), oneDayMove) ?? 'unplaced';
-    by.set(p, [...(by.get(p) ?? []), r]);
+    // Counted the desk's way: where it is filed (causes.ts). A one-day move is also counted under timezone.
+    add(causeOf(r, tenantOf(r)) ?? 'unplaced', r);
+    if (problemOf(r, tenantOf(r), oneDayMove) === 'timezone') add('timezone', r);
   }
   return [...by.entries()]
     .map(([problem, rs]) => {

diff --git a/build/_app/immutable/nodes/5.nLct2xgY.js b/build/_app/immutable/nodes/5.nLct2xgY.js
@@ -1,0 +1,1 @@
+export{n as component}from"../chunks/DkG8LdND.js";
